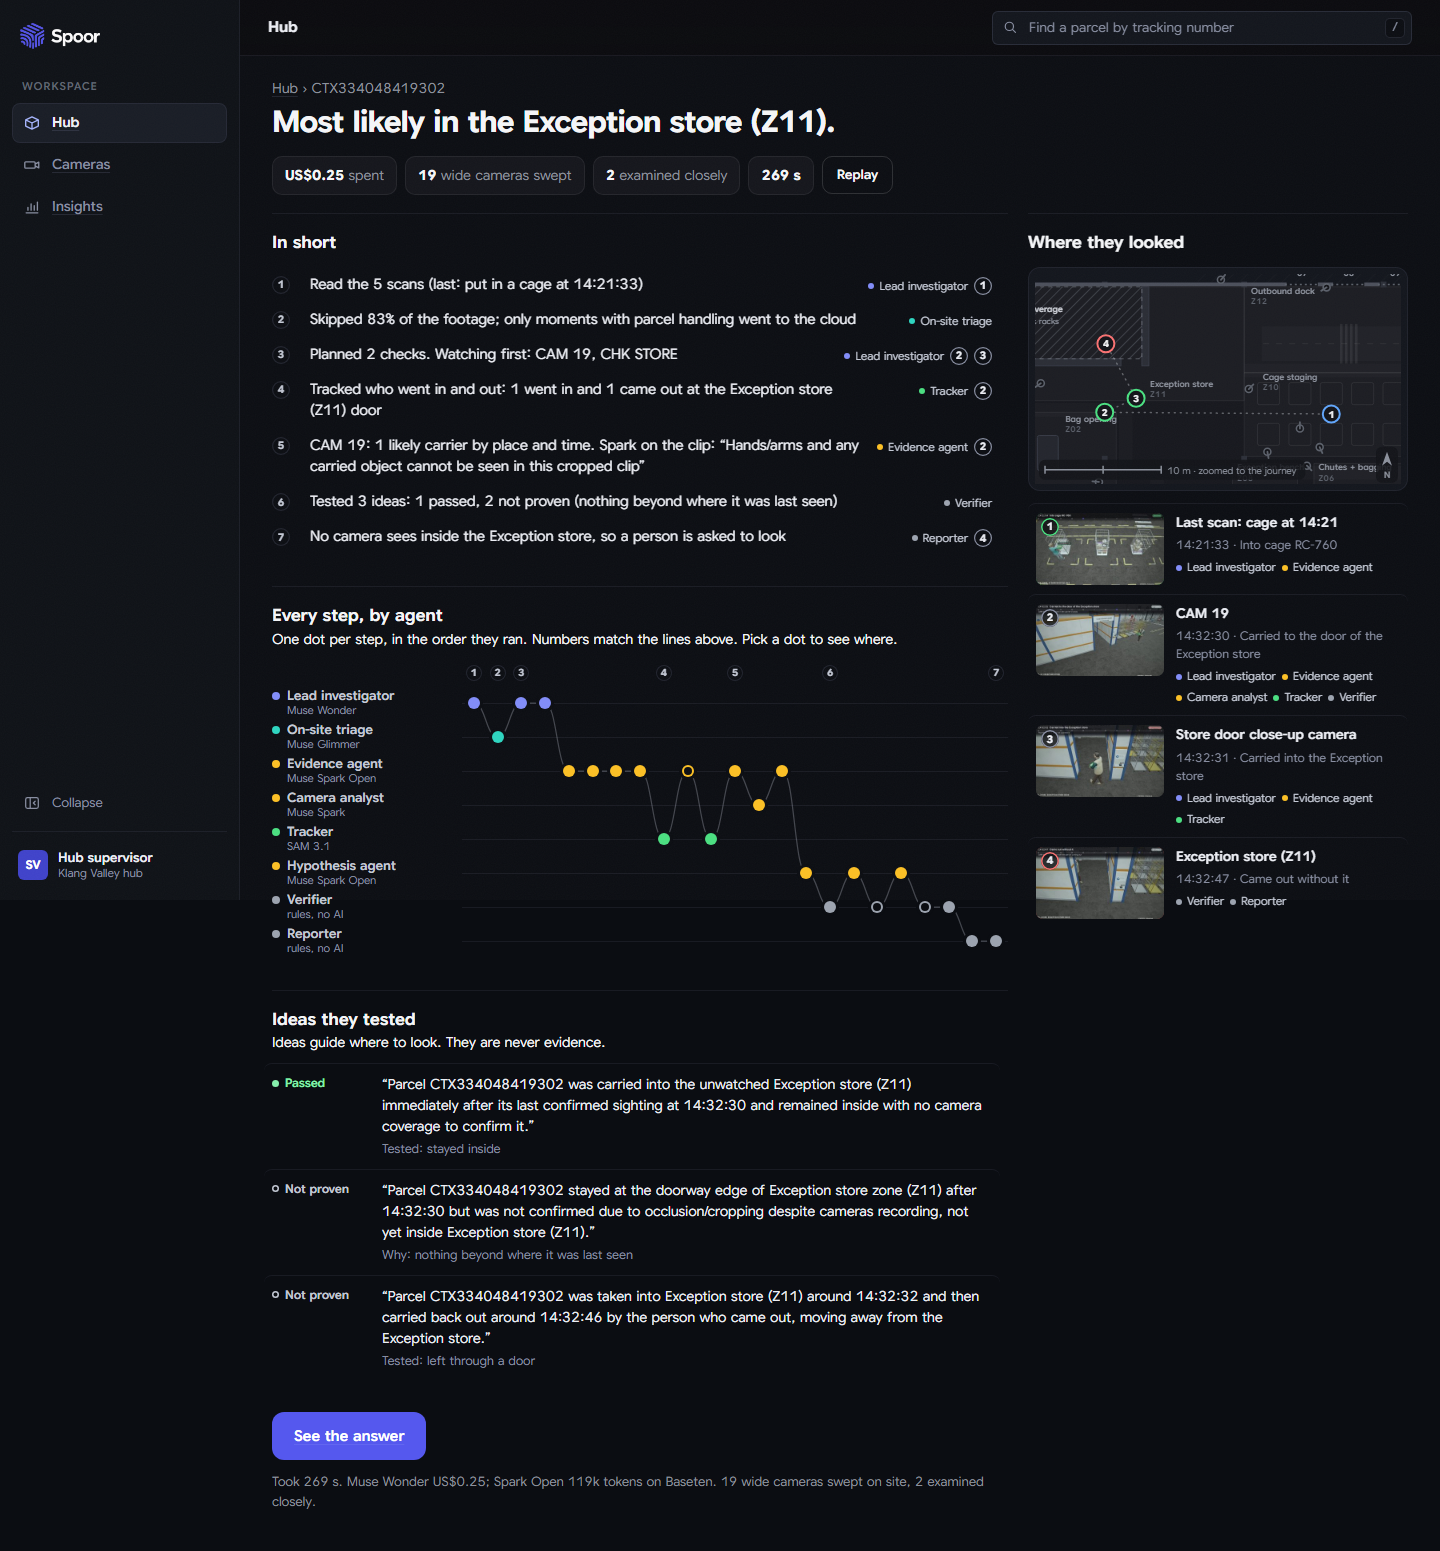
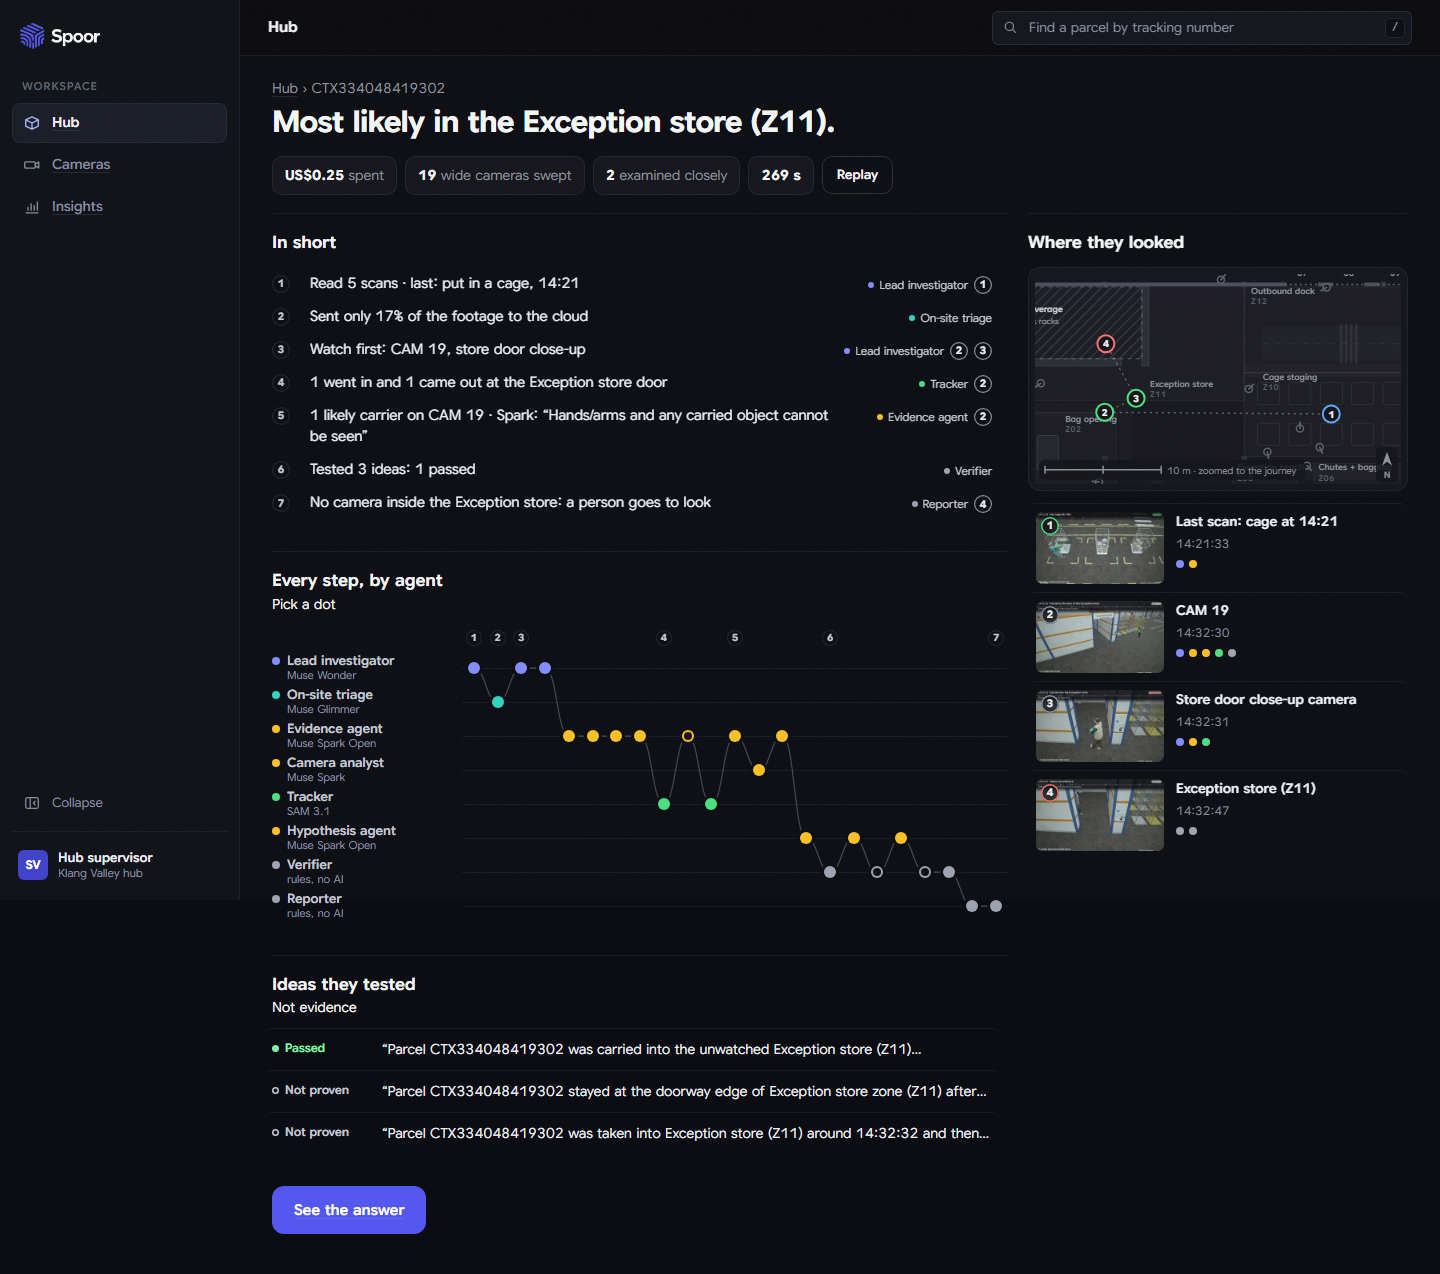
Investigate, quieter: summary lines cut to their fact, section lines to a few words, ideas one line until picked, places as name + time + agent pips, no repeated cost line

diff --git a/frontend/src/app/cases/[caseId]/investigate/page.tsx b/frontend/src/app/cases/[caseId]/investigate/page.tsx
@@ -41,6 +41,8 @@ const secs = (t: number) => (t < 10 ? t.toFixed(1) : String(Math.round(t)));
 /** the run's own elapsed time (+m:ss), so it is never read as the hub clock of the footage */
 const runTime = (t: number) => `+${Math.floor(t / 60)}:${String(Math.floor(t % 60)).padStart(2, "0")}`;
 
+const CLOSE: Record<string, string> = { UNLOAD: "Unload", TUNNEL: "Tunnel", CAGE_W: "Cage", CAGE_E: "Cage", STORE: "Store door", DOCK: "Dock", CHUTE: "Chute" };
+
 interface Beat { key: string; text: string; model: string; seq: number }
 const first = (t: string) => t.split(/(?<=\.)\s/)[0].replace(/\.$/, "");
 const unparen = (t: string) => t.replace(/\s*\([^)]*\)/g, "").replace(/\.$/, "");
@@ -53,28 +55,31 @@ function storyline(steps: Step[], crew: RunView["crew"]): Beat[] {
   const out: Beat[] = [];
   const add = (key: string, s: Step | undefined, text: string, role = s?.role ?? "") => { if (s) out.push({ key, text, model: model(role), seq: s.seq }); };
   const read = done("read_scans")[0];
-  add("read", read, read ? unparen(read.text).replace(/\. Last: (.*)$/, " (last: $1)").replace(/^Read /, "Read the ") : "");
+  const rm = read?.text.match(/^Read (\d+) scans\. Last: (.+?) at (\d\d:\d\d)/);
+  add("read", read, rm ? `Read ${rm[1]} scans · last: ${rm[2]}, ${rm[3]}` : read ? unparen(read.text) : "");
   const tri = done("triage_clips")[0];
   const share = (tri?.receipt?.output as { sent_share?: number } | undefined)?.sent_share;
-  add("triage", tri, share != null ? `Skipped ${Math.round((1 - share) * 100)}% of the footage; only moments with parcel handling went to the cloud` : tri ? first(tri.text) : "");
+  add("triage", tri, share != null ? `Sent only ${Math.round(share * 100)}% of the footage to the cloud` : tri ? first(tri.text) : "");
   const plan = done("plan")[0], pick = done("pick_cameras")[0];
-  add("plan", plan, plan ? `${plan.text.split(":")[0]}${pick ? `. ${unparen(pick.text)}` : ""}` : "");
+  const cams = pick?.text.match(/:\s*(.+?)\.?$/)?.[1].replace(/CHK (\w+)/g, (_, k: string) => `${(CLOSE[k] ?? k).toLowerCase()} close-up`);
+  add("plan", plan, cams ? `Watch first: ${cams}` : plan ? first(plan.text) : "");
   const doors = done("door_crossings"), tracked = done("sam_track");
-  const door = doors.at(-1)?.text.match(/^(.+?): (.+?) at its door/);
-  add("track", tracked[0], door ? `Tracked who went in and out: ${door[2]} at the ${door[1]} door` : tracked[0] ? unparen(tracked[0].text) : "", "tracker");
+  const door = doors.at(-1)?.text.match(/^(.+?)(?: \(Z\d+\))?: (.+?) at its door/);
+  add("track", tracked[0], door ? `${door[2][0].toUpperCase()}${door[2].slice(1)} at the ${door[1]} door` : tracked[0] ? unparen(tracked[0].text) : "", "tracker");
   const carrier = done("carrier_check")[0], looked = done("observe_clip");
-  // Spark's own words on the clip (kept on the step), first clause only: never a paraphrase of what it did not say
+  // Spark's own words on the clip, up to their first clause: never a paraphrase of what it did not say
   const said = looked.map((x) => (x.receipt?.output as { said?: string | null } | undefined)?.said).find(Boolean);
-  const quote = said ? ` Spark on the clip: “${said.split(/[;.]\s/)[0].replace(/\.$/, "")}”` : "";
-  add("carrier", carrier ?? looked[0], carrier ? `${unparen(carrier.text)}.${quote || (looked.length ? ` ${looked.length === 1 ? "A clip" : `${looked.length} clips`} checked` : "")}`
-    : looked[0] ? `${unparen(looked[0].text).replace(/Muse \w+ /, "")}.${quote}` : "", "analyst");
+  const words = said ? said.split(/[;.]\s|\s+in this\s/)[0].replace(/\.$/, "") : "";
+  const cm = carrier?.text.match(/^(.+?): (\d+) likely carriers?/);
+  add("carrier", carrier ?? looked[0], [cm ? `${cm[2]} likely carrier on ${cm[1]}` : carrier ? unparen(carrier.text) : "", words ? `Spark: “${words}”` : ""]
+    .filter(Boolean).join(" · "), "analyst");
   const ideas = done("propose");
   const tests = steps.filter((s) => s.role === "verifier" && s.seq > (ideas[0]?.seq ?? Infinity) && /^(Passed|Unproven|Rejected)/.test(s.text));
   const passed = tests.filter((s) => s.text.startsWith("Passed")).length;
-  const why = tests.find((s) => !s.text.startsWith("Passed"))?.text.match(/\(([^)]*)\)/)?.[1];
-  add("ideas", tests[0], `Tested ${tests.length} idea${tests.length === 1 ? "" : "s"}: ${passed} passed, ${tests.length - passed} not proven${why ? ` (${why})` : ""}`, "verifier");
+  add("ideas", tests[0], `Tested ${tests.length} idea${tests.length === 1 ? "" : "s"}: ${passed} passed`, "verifier");
   const ask = done("ask_a_person")[0] ?? done("create_search_task")[0];
-  add("ask", ask, ask ? unparen(ask.text) : "");
+  const am = ask?.text.match(/^No camera sees inside (?:the )?(.+?)(?: \(Z\d+\))?, so a person is asked to look/);
+  add("ask", ask, am ? `No camera inside the ${am[1]}: a person goes to look` : ask ? unparen(ask.text) : "");
   return out.sort((x, y) => x.seq - y.seq);
 }
 
@@ -190,7 +195,7 @@ export default function InvestigatePage({ params }: { params: Promise<{ caseId: 
   const places: Place[] = [];
   const addPlace = (key: string) => {
     if (places.some((p) => p.key === key)) return;
-    if (key === "last" && lastXy) places.push({ key, xy: lastXy, label: `Last scan: ${(lastScanStep?.node?.name ?? "scan point").toLowerCase()} at ${lastScanStep?.node?.place.replace("scan ", "").slice(0, 5) ?? ""}`, tone: "scan" });
+    if (key === "last" && lastXy) places.push({ key, xy: lastXy, label: `Last scan: ${(lastScanStep?.node?.name ?? "scan point").toLowerCase()}`, tone: "scan" });
     else if (key === "zone" && zoneXy) places.push({ key, xy: zoneXy, label: zoneName, tone: "bad" });
     else if (key.startsWith("cam:")) {
       const c = HUB.cameras.find((x) => x.id === key.slice(4));
@@ -244,7 +249,7 @@ export default function InvestigatePage({ params }: { params: Promise<{ caseId: 
           <h1 className="iv-title">{title}</h1>
         </div>
         <div aria-label="Live meter" className="iv-meter">
-          <span><strong>US${(end?.cost_usd ?? cur?.cost_usd ?? 0).toFixed(2)}</strong> <span>spent</span></span>
+          <span title={end?.text}><strong>US${(end?.cost_usd ?? cur?.cost_usd ?? 0).toFixed(2)}</strong> <span>spent</span></span>
           {swept > 0 && <span><strong>{swept}</strong> <span>wide cameras swept</span></span>}
           <span><strong>{end?.cameras_checked ?? cur?.cameras_checked ?? 0}</strong> <span>{swept > 0 ? "examined closely" : "of 19 wide cameras examined"}</span></span>
           <span><strong>{secs(end?.t_s ?? cur?.t_s ?? 0)} s</strong></span>
@@ -281,7 +286,7 @@ export default function InvestigatePage({ params }: { params: Promise<{ caseId: 
           <div className="iv-card iv-relay-card">
             <div className="iv-card-head">
               <h2>Every step, by agent</h2>
-              <span>One dot per step, in the order they ran. Numbers match the lines above. Pick a dot to see where.</span>
+              <span>Pick a dot</span>
             </div>
             {steps.length > 0 ? (
               <div className="iv-relay" onMouseLeave={() => setPeek(null)}>
@@ -347,14 +352,15 @@ export default function InvestigatePage({ params }: { params: Promise<{ caseId: 
 
           {ideas.length > 0 && (
             <div className="iv-card iv-ideas">
-              <div className="iv-card-head"><h2>Ideas they tested</h2><span>Ideas guide where to look. They are never evidence.</span></div>
+              <div className="iv-card-head"><h2>Ideas they tested</h2><span>Not evidence</span></div>
               <ol className="iv-idea-list">
                 {ideas.map((d) => (
                   <li key={d.seq}>
-                    <button type="button" className="iv-idea" onClick={() => setPicked(d.seq)} aria-pressed={focus?.seq === d.seq}>
+                    <button type="button" className="iv-idea" onClick={() => setPicked((p) => (p === d.seq ? null : d.seq))} aria-pressed={picked === d.seq}
+                      aria-expanded={picked === d.seq}>
                       <span className="iv-verdict" data-ok={d.passed ? "" : undefined}>{d.verdict}</span>
                       <q>{d.quote}</q>
-                      {d.why && <small>{d.tested ? "Tested" : "Why"}: {d.why}</small>}
+                      {d.why && picked === d.seq && <small>{d.tested ? "Tested" : "Why"}: {d.why}</small>}
                     </button>
                   </li>
                 ))}
@@ -364,7 +370,7 @@ export default function InvestigatePage({ params }: { params: Promise<{ caseId: 
 
           <div className="iv-foot">
             {done && <Link className="iv-btn-primary" href={`/cases/${caseId}`}>See the answer</Link>}
-            <span>{done ? end!.text : "No one needs to click anything until the answer is ready."}</span>
+            {!done && <span>No one needs to click anything until the answer is ready.</span>}
           </div>
         </section>
 
@@ -391,9 +397,9 @@ export default function InvestigatePage({ params }: { params: Promise<{ caseId: 
                       </span>
                       <span className="iv-place-body">
                         <span className="iv-place-name">{p.label}</span>
-                        {fr && <span className="iv-place-fr">{hm(fr.t)} · {fr.title}</span>}
-                        <span className="iv-place-who">
-                          {who.map((c) => <span key={c.role} className="iv-chip" data-fam={fam(c.model)}>{c.who}</span>)}
+                        {fr && <span className="iv-place-fr" title={fr.title}>{hm(fr.t)}</span>}
+                        <span className="iv-place-who" aria-label={`Worked here: ${who.map((c) => c.who).join(", ")}`}>
+                          {who.map((c) => <span key={c.role} className="iv-pip" data-fam={fam(c.model)} title={`${c.who} · ${c.model}`} />)}
                         </span>
                       </span>
                     </button>
@@ -415,5 +421,4 @@ function fam(model: string): string {
   return /Wonder/.test(model) ? "wonder" : /Glimmer/.test(model) ? "glimmer" : /Spark/.test(model) ? "spark" : /SAM/.test(model) ? "sam" : "rules";
 }
 
-const CLOSE: Record<string, string> = { UNLOAD: "Unload", TUNNEL: "Tunnel", CAGE_W: "Cage", CAGE_E: "Cage", STORE: "Store door", DOCK: "Dock", CHUTE: "Chute" };
 const camWords = (id: string) => id.startsWith("CHK_") ? `${CLOSE[id.slice(4)] ?? id.slice(4)} close-up camera` : id.replace("_", " ");

diff --git a/frontend/src/app/cases/[caseId]/investigate/investigate.css b/frontend/src/app/cases/[caseId]/investigate/investigate.css
@@ -197,3 +197,13 @@
   .iv-focus-pic { grid-column: 1; grid-row: auto; width: 100%; }
 }
 @media (prefers-reduced-motion: reduce) { .iv-focus-pic { animation: none; } .iv-dot { transition: none; } }
+
+/* quieter (Rexton 3 Nov: too wordy): ideas on one line until picked, places as name + time + agent pips */
+.iv-idea q { overflow: hidden; display: -webkit-box; -webkit-line-clamp: 1; -webkit-box-orient: vertical; }
+.iv-idea[aria-expanded="true"] q { -webkit-line-clamp: unset; }
+.iv-place-who { display: flex; gap: 5px; margin-top: 4px; }
+.iv-pip { width: 8px; height: 8px; border-radius: 50%; background: var(--f); }
+.iv-place { padding: 8px; }
+.iv-place-name { font-size: 13.5px; }
+.iv-places li + li .iv-place { border-top-color: var(--tb-line, rgba(255, 255, 255, 0.06)); }
+.iv-story-btn { padding: 6px 8px; }
